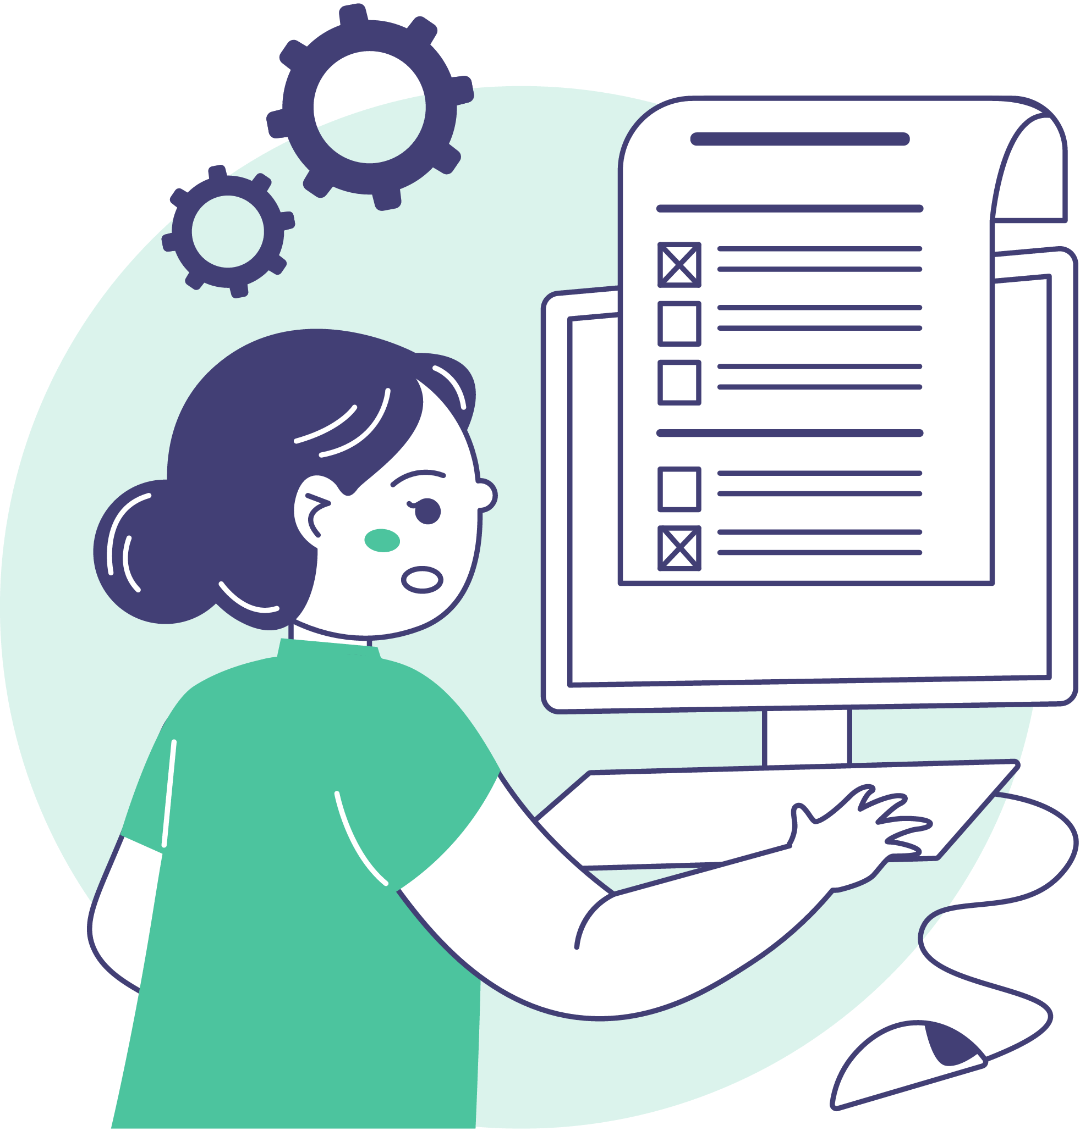
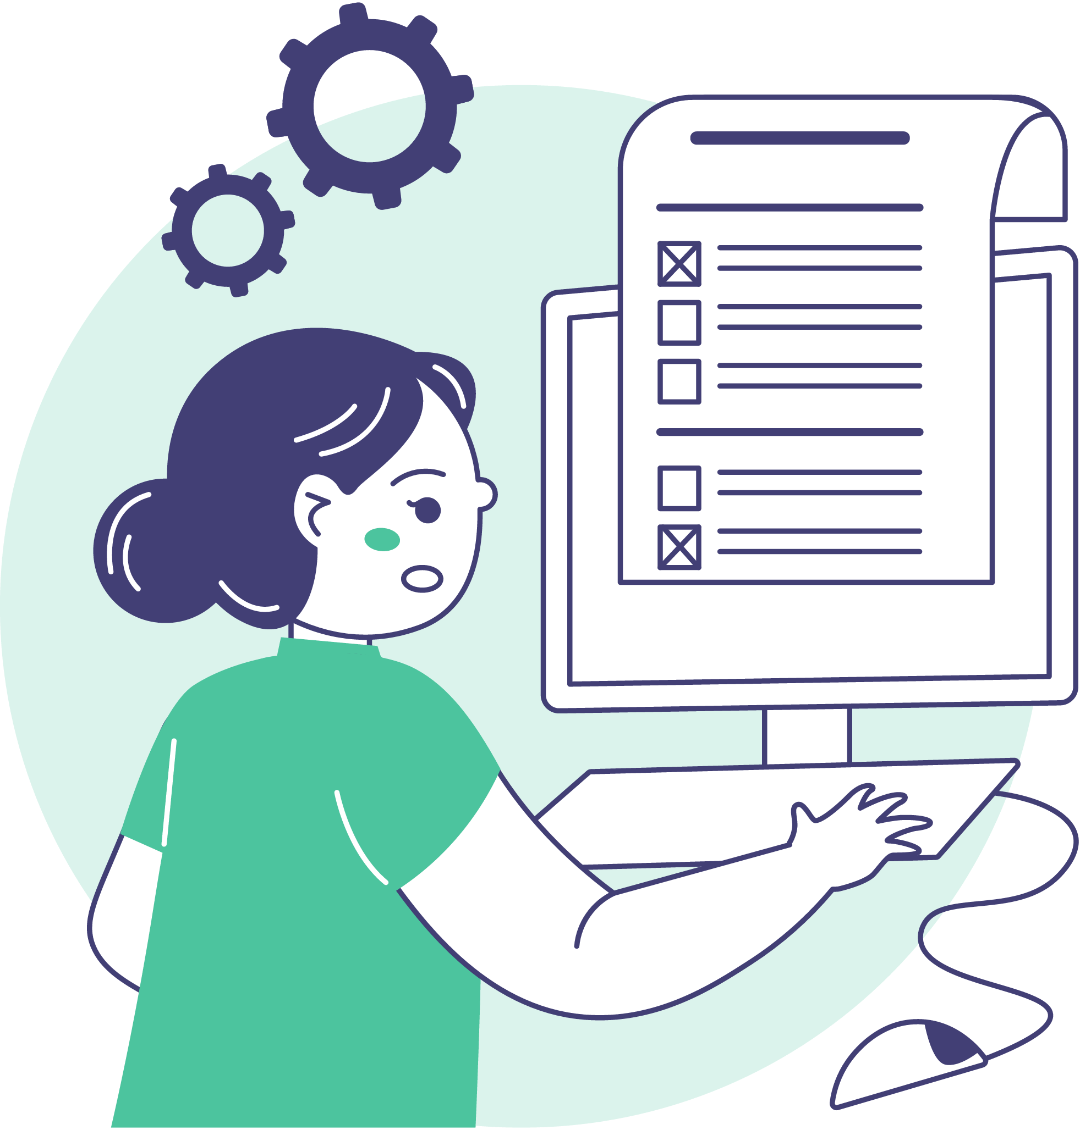
refactor: ajuste no modal de avaliações

diff --git a/templates/gabarita_if/partials/_card_avaliacao.html b/templates/gabarita_if/partials/_card_avaliacao.html
@@ -89,7 +89,7 @@
   </div>
 
   <div class="modal fade" id="formato-avaliacao-{{ object.id }}" tabindex="-1" aria-labelledby="formato-avaliacao-titulo-{{ object.id }}" aria-hidden="true">
-    <div class="modal-dialog modal-dialog-centered">
+    <div class="modal-dialog modal-lg modal-dialog-centered">
       <div class="modal-content">
         <form action="{% url 'gabarita_if:iniciar-avaliacao' object.id %}" method="get">
           <div class="modal-header">
@@ -98,28 +98,24 @@
           </div>
           <div class="modal-body">
             <p class="mb-3">{{ object.titulo }} - {{ object.ano }}</p>
-            <div class="d-grid gap-3">
-              <div>
+            <div class="row g-3">
+              <div class="col-6">
                 <input class="btn-check" type="radio" name="formato" id="formato-online-{{ object.id }}" value="online" autocomplete="off" checked required>
-                <label class="assessment-format-option btn w-100 text-start p-3" for="formato-online-{{ object.id }}">
-                  <span class="d-flex align-items-center gap-3">
-                    <i class="fa-solid fa-laptop fs-4" aria-hidden="true"></i>
-                    <span>
-                      <strong class="d-block">Prova online</strong>
-                      <span class="small">Realize a avaliação diretamente pela plataforma.</span>
-                    </span>
+                <label class="assessment-format-option btn w-100 p-3" for="formato-online-{{ object.id }}">
+                  <img class="assessment-format-image w-50" src="{% static 'assets/img/7.png' %}" alt="">
+                  <span>
+                    <strong class="d-block mb-1">Prova online</strong>
+                    <span class="small">Realize a avaliação diretamente pela plataforma e visualize as respostas ao final da avaliação.</span>
                   </span>
                 </label>
               </div>
-              <div>
+              <div class="col-6">
                 <input class="btn-check" type="radio" name="formato" id="formato-impressa-{{ object.id }}" value="impressa" autocomplete="off" required>
-                <label class="assessment-format-option btn w-100 text-start p-3" for="formato-impressa-{{ object.id }}">
-                  <span class="d-flex align-items-center gap-3">
-                    <i class="fa-solid fa-print fs-4" aria-hidden="true"></i>
-                    <span>
-                      <strong class="d-block">Prova impressa</strong>
-                      <span class="small">Acesse o PDF da avaliação para visualizar ou imprimir.</span>
-                    </span>
+                <label class="assessment-format-option btn w-100 p-3" for="formato-impressa-{{ object.id }}">
+                  <img class="assessment-format-image w-50" src="{% static 'assets/img/8.png' %}" alt="">
+                  <span>
+                    <strong class="d-block mb-1">Prova impressa</strong>
+                    <span class="small">Faça o download do PDF da avaliação e imprima para realizar a prova.</span>
                   </span>
                 </label>
               </div>

diff --git a/static/gabarita_if/css/styles.css b/static/gabarita_if/css/styles.css
@@ -1616,9 +1616,22 @@ hr {
 }
 
 .assessment-format-option {
+  display: flex;
+  flex-direction: column;
+  align-items: center;
+  justify-content: flex-start;
+  gap: 1rem;
+  height: 100%;
+  min-height: 18rem;
   border: 2px solid var(--bs-gray-300);
   color: var(--bs-body-color);
   white-space: normal;
+  text-align: center;
+}
+.assessment-format-image {
+  width: 100%;
+  height: 11rem;
+  object-fit: contain;
 }
 
 .btn-check:checked + .assessment-format-option {
@@ -2970,6 +2983,6 @@ fieldset:disabled .btn {
 .breadcrumb .text-muted {
   color: rgb(0, 0, 0, 0.3) !important;
 }
-.text-danger{
+.text-danger {
   color: var(--danger-color) !important;
 }
